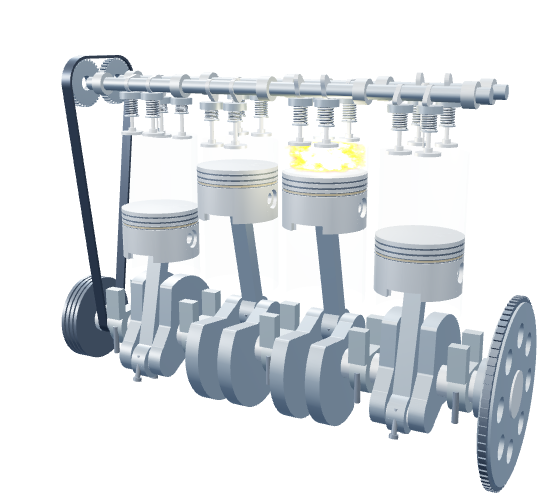
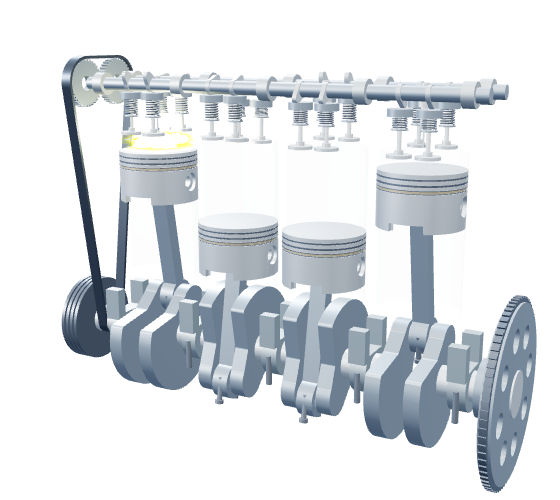
Start homepage engine paused until visitors press Play

diff --git a/WEBSITE_SOURCE/index.html b/WEBSITE_SOURCE/index.html
@@ -917,7 +917,7 @@ footer{flex-direction:column;justify-content:center;align-items:center;gap:1rem;
 </script>
 <link rel="stylesheet" href="nasscad-license.css">
 <script defer src="nasscad-license.js"></script>
-<link rel="stylesheet" href="nasscad-home-engine.css?v=20261020">
+<link rel="stylesheet" href="nasscad-home-engine.css?v=20261020-paused">
 </head>
 <body>
 
@@ -1009,10 +1009,10 @@ footer{flex-direction:column;justify-content:center;align-items:center;gap:1rem;
     <div class="engine-stage" id="homeEngine" data-state="loading" tabindex="0" role="group"
       aria-label="Animated four-cylinder engine. Drag or use arrow keys to orbit, Space to pause and Home to reset the view."
       aria-keyshortcuts="ArrowLeft ArrowRight ArrowUp ArrowDown Space Home">
-      <img class="engine-poster" src="nasscad-home-engine.png" alt="NassLab inline-four engine with four pistons, connecting rods, crankshaft and twin overhead camshafts" width="840" height="750" fetchpriority="high">
+      <img class="engine-poster" src="nasscad-home-engine.png?v=20261020-paused" alt="NassLab inline-four engine with four pistons, connecting rods, crankshaft and twin overhead camshafts" width="840" height="750" fetchpriority="high">
     </div>
     <div class="engine-controls">
-      <button type="button" id="enginePause" aria-label="Pause engine animation" disabled>Ⅱ Pause</button>
+      <button type="button" id="enginePause" aria-label="Play engine animation" disabled>▶ Play</button>
       <button type="button" id="engineReset" aria-label="Reset engine view" disabled>↺ Reset view</button>
       <a class="engine-demo-link" href="nasscript_doc.html#engine-demo">Explore the engine →</a>
     </div>
@@ -1638,7 +1638,7 @@ what you model is what you export, 1:1, no scale surprises. Export the
   }
   document.addEventListener('keydown',e=>{ if(e.key==='Escape') lbClose(); });
 </script>
-<script src="nasscad-home-engine.js?v=20261020" defer></script>
+<script src="nasscad-home-engine.js?v=20261020-paused" defer></script>
 <script>
 document.addEventListener('click', function(event) {
   var link=event.target.closest && event.target.closest('a[href]');

diff --git a/WEBSITE_SOURCE/nasscad-home-engine.js b/WEBSITE_SOURCE/nasscad-home-engine.js
@@ -78,7 +78,7 @@ function createEngine(THREE,data){
   const d=mod(cycle*180/Math.PI,720),start=type==='intake'?350:155,end=type==='intake'?590:375;
   return d<start||d>end?0:9*Math.pow(Math.sin(Math.PI*(d-start)/(end-start)),4);
  }
- let angle=35*Math.PI/180,yaw=-1.08,pitch=.24,raf=0,last=null,visible=false,playing=!motion.matches,drag=null,disposed=false;
+ let angle=35*Math.PI/180,yaw=-1.08,pitch=.24,raf=0,last=null,visible=false,playing=false,drag=null,disposed=false;
  function pose(){
   groups.crank.rotation.z=-angle;
   for(let i=0;i<4;i++){
@@ -116,7 +116,7 @@ function createEngine(THREE,data){
  stage.addEventListener('pointerdown',e=>{if(!e.isPrimary||e.button!==0)return;drag={x:e.clientX,y:e.clientY};stage.setPointerCapture(e.pointerId);stage.classList.add('dragging');});
  stage.addEventListener('pointermove',e=>{if(!drag)return;yaw-=(e.clientX-drag.x)*.006;pitch=Math.max(-.2,Math.min(.75,pitch+(e.clientY-drag.y)*.004));drag={x:e.clientX,y:e.clientY};draw();});
  const endDrag=()=>{drag=null;stage.classList.remove('dragging');};stage.addEventListener('pointerup',endDrag);stage.addEventListener('pointercancel',endDrag);stage.addEventListener('dblclick',reset);
- motion.addEventListener('change',()=>{playing=!motion.matches;sync();draw();});
+ motion.addEventListener('change',()=>{if(motion.matches)playing=false;sync();draw();});
  function resize(){const width=stage.clientWidth,height=stage.clientHeight;if(!width||!height)return;renderer.setSize(width,height,false);camera.aspect=width/height;camera.updateProjectionMatrix();draw();}
  new ResizeObserver(resize).observe(stage);resize();sync();
  function fail(){if(disposed)return;disposed=true;cancelAnimationFrame(raf);combustion.dispose();resources.forEach(r=>r.dispose());renderer.dispose();stage.dataset.state='fallback';pauseButton.hidden=true;resetButton.hidden=true;}

diff --git a/WEBSITE_SOURCE/README.md b/WEBSITE_SOURCE/README.md
@@ -18,6 +18,7 @@ The existing root `three.js` is also required. The model `.bin` is a gzip payloa
 decoded locally using `DecompressionStream`; serve it as an ordinary binary file,
 without a `Content-Encoding: gzip` header. The PNG remains visible while loading,
 when JavaScript or WebGL is unavailable, or when the model cannot be loaded.
+The engine starts paused; only an explicit Play action starts animation.
 The animation respects reduced-motion preferences and sleeps outside the viewport.
 Drag to orbit (including horizontal touch gestures); keyboard arrows, Space and
 Home also work. The combustion effect is an illustration, not a physics solver.
